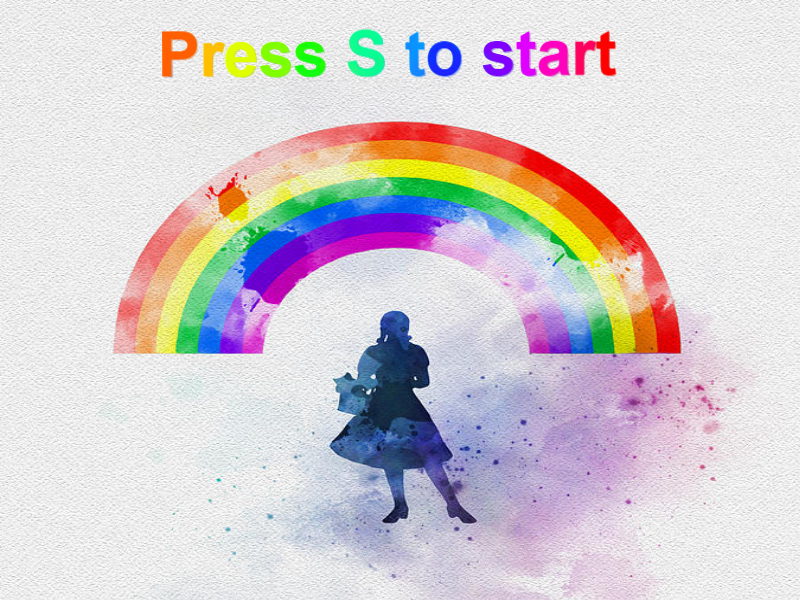
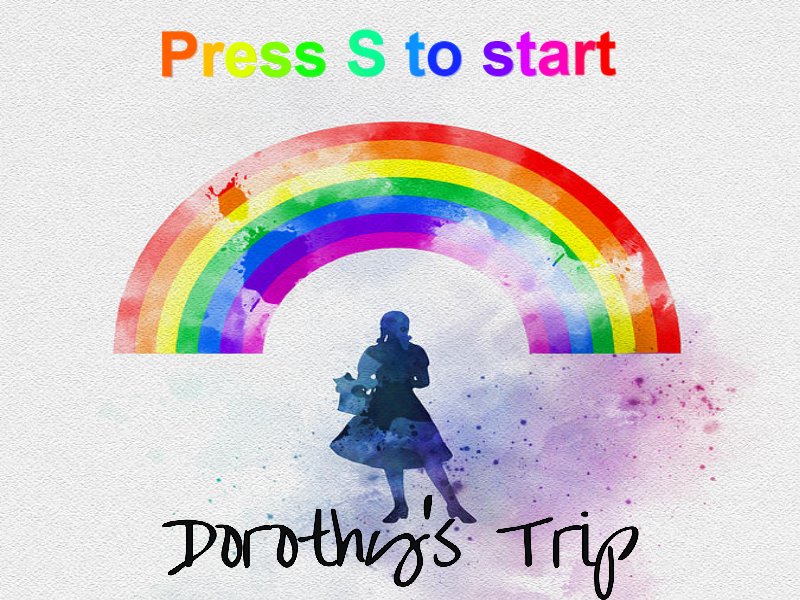
added name to menu image

Changed region(s): [[0.1875, 0.81, 0.5938, 0.99], [0.625, 0.87, 0.8125, 1.0]]

diff --git a/src/main/java/org/academiadecodigo/felinux/GameObjects/model/Dorothy.java b/src/main/java/org/academiadecodigo/felinux/GameObjects/model/Dorothy.java
@@ -14,6 +14,7 @@ public class Dorothy extends AbstractModel {
     private boolean idle;
     private DirectionType prevDirection;
     private String lastSprite = "/img/chars/oldLady/OLD_IDLE_FRONT.png";
+    private boolean decision;
 
 
     public Dorothy() {
@@ -101,6 +102,9 @@ public class Dorothy extends AbstractModel {
 
         return Math.sqrt(Math.pow((xA-xB),2)+Math.pow((yA-yB),2));
     }
+    public void setDecision(boolean decision) {
+        this.decision = decision;
+    }
 
     public int getMoveCounter() {
         return moveCounter;
@@ -122,3 +126,5 @@ public class Dorothy extends AbstractModel {
         return prevDirection;
     }
 }
+
+

diff --git a/src/main/java/org/academiadecodigo/felinux/Services/GameCycle.java b/src/main/java/org/academiadecodigo/felinux/Services/GameCycle.java
@@ -47,7 +47,6 @@ public class GameCycle {
      * While player is alive, game is looping
      */
     public void start() {
-<<<<<<< HEAD
 
         menu.init();
 
@@ -56,13 +55,11 @@ public class GameCycle {
         }
 
         menu.showInstructions();
-=======
         /*
         menu.startScreen();
         menu.showInstructions();
 
 */
->>>>>>> 3e7fb277d56db62c0498da6f2f2ff38e6758228b
 
 
         mapList.get(0).init(highnessMeter, MapType.ROOM);
